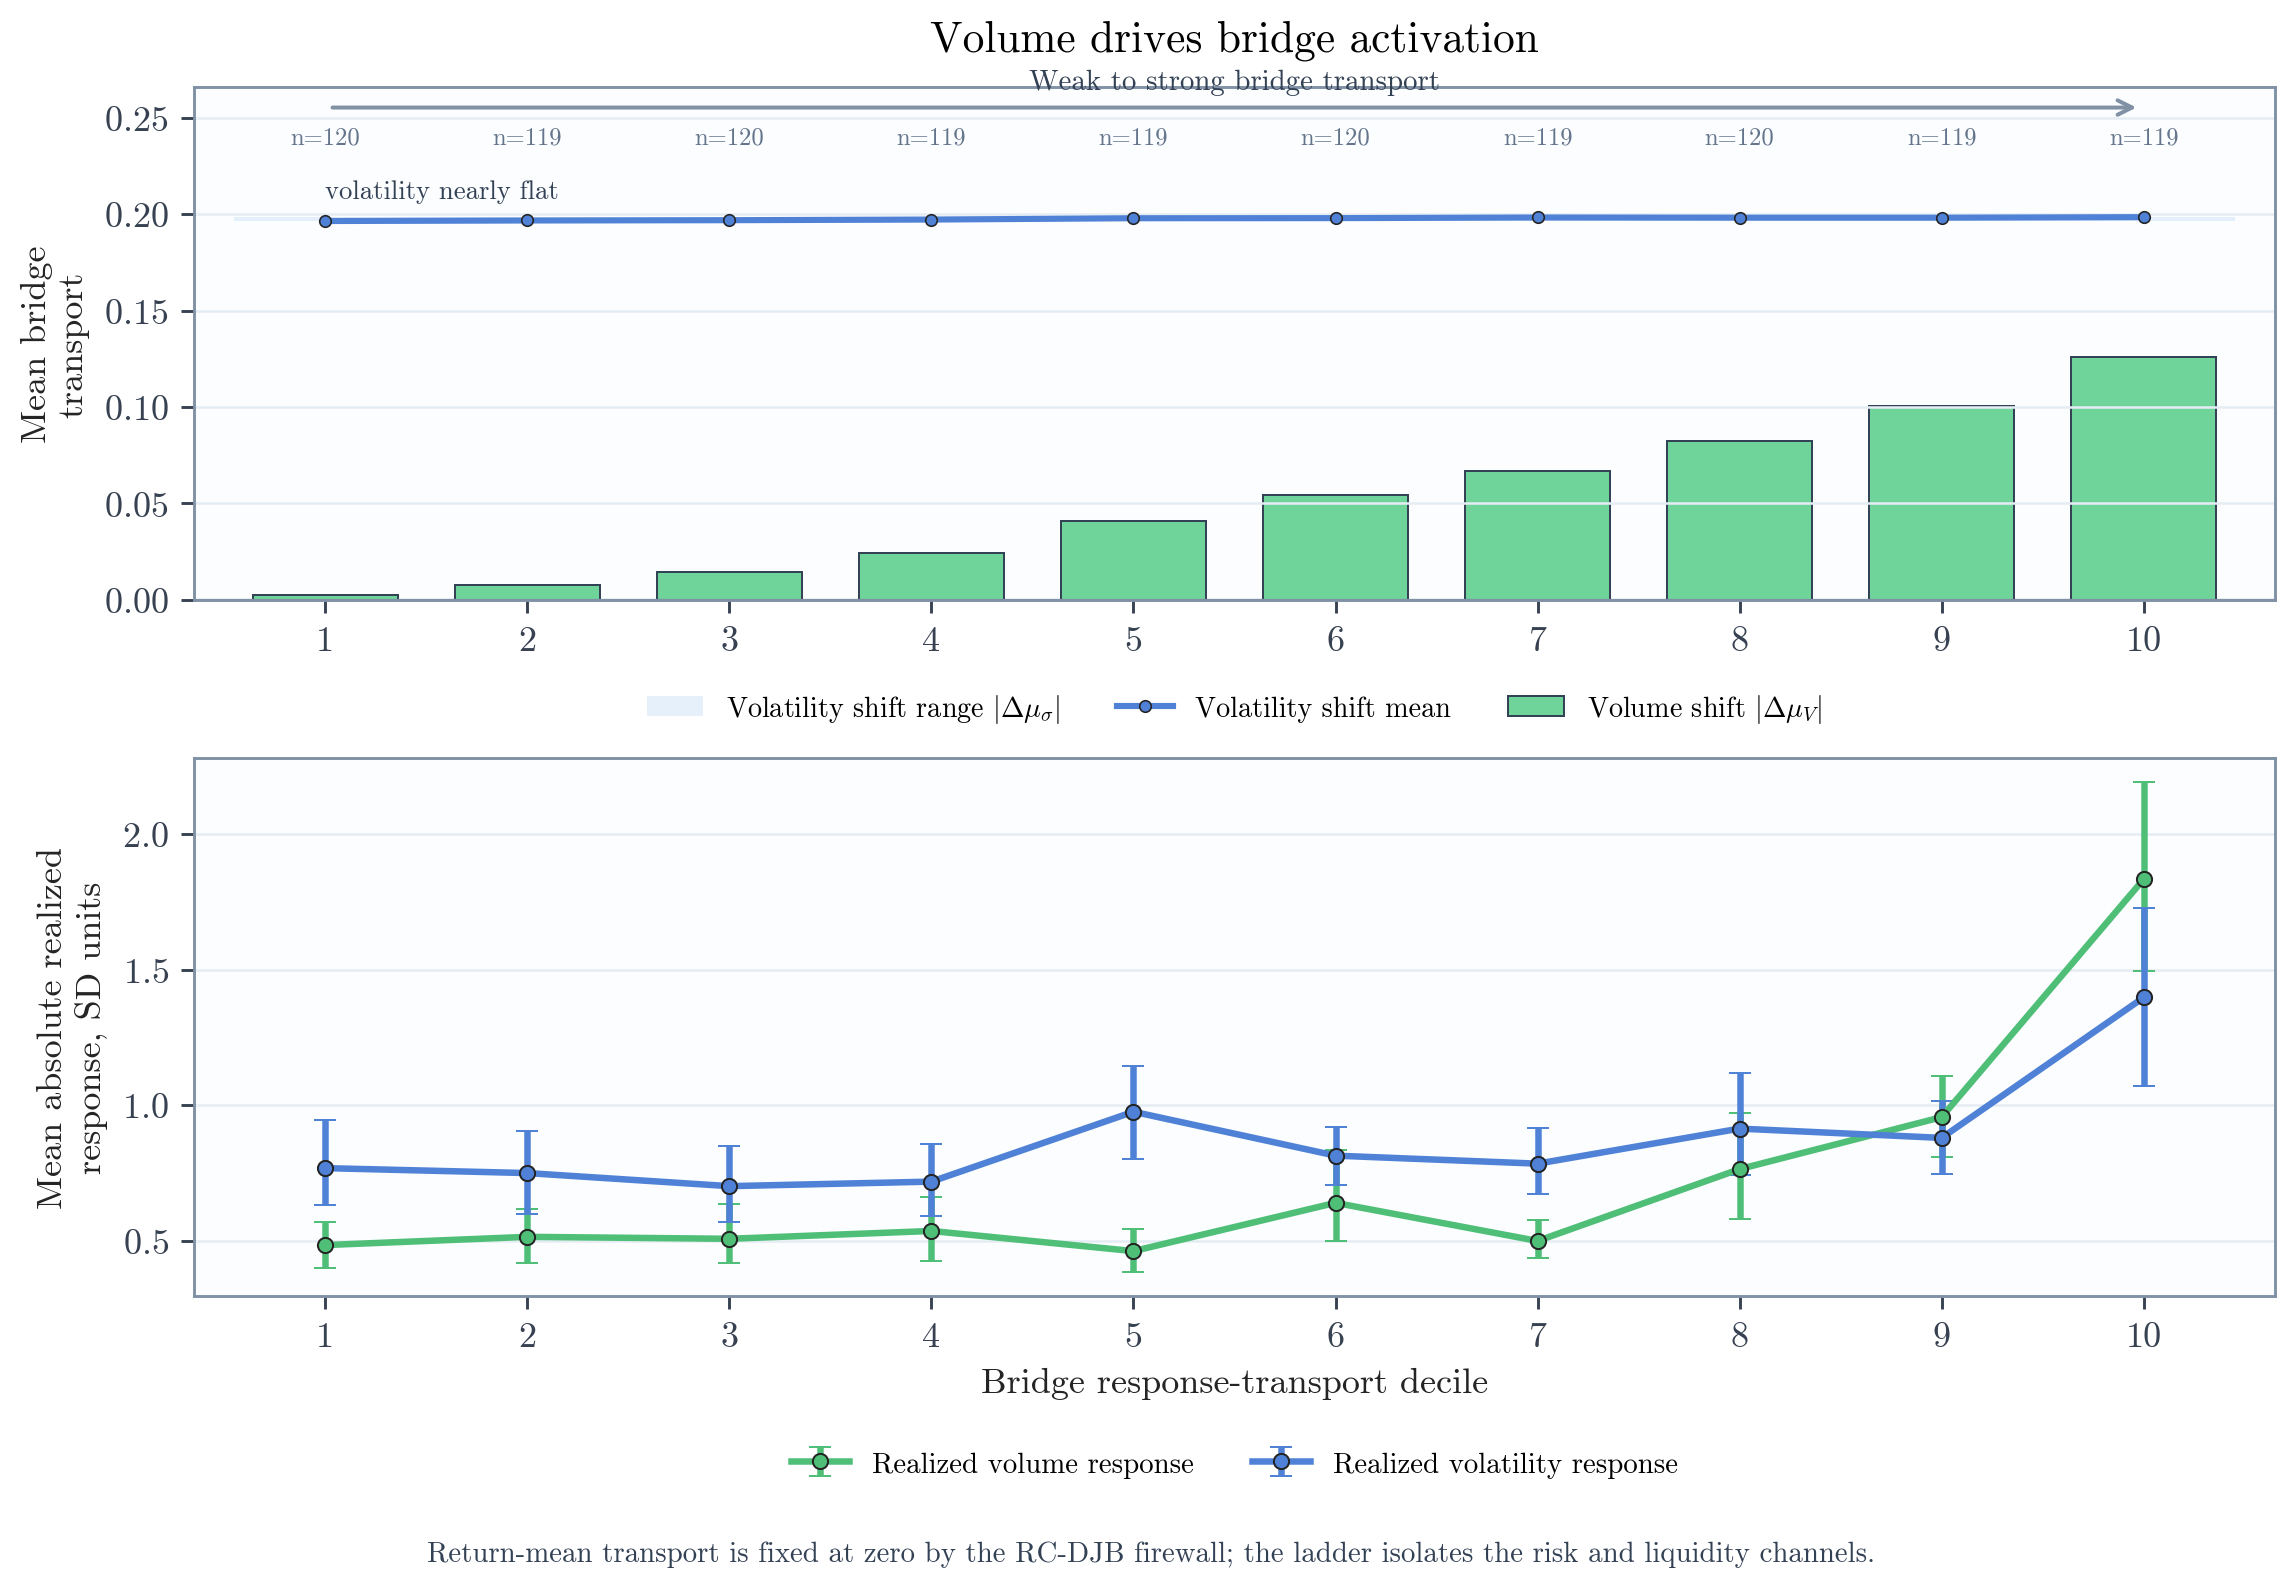
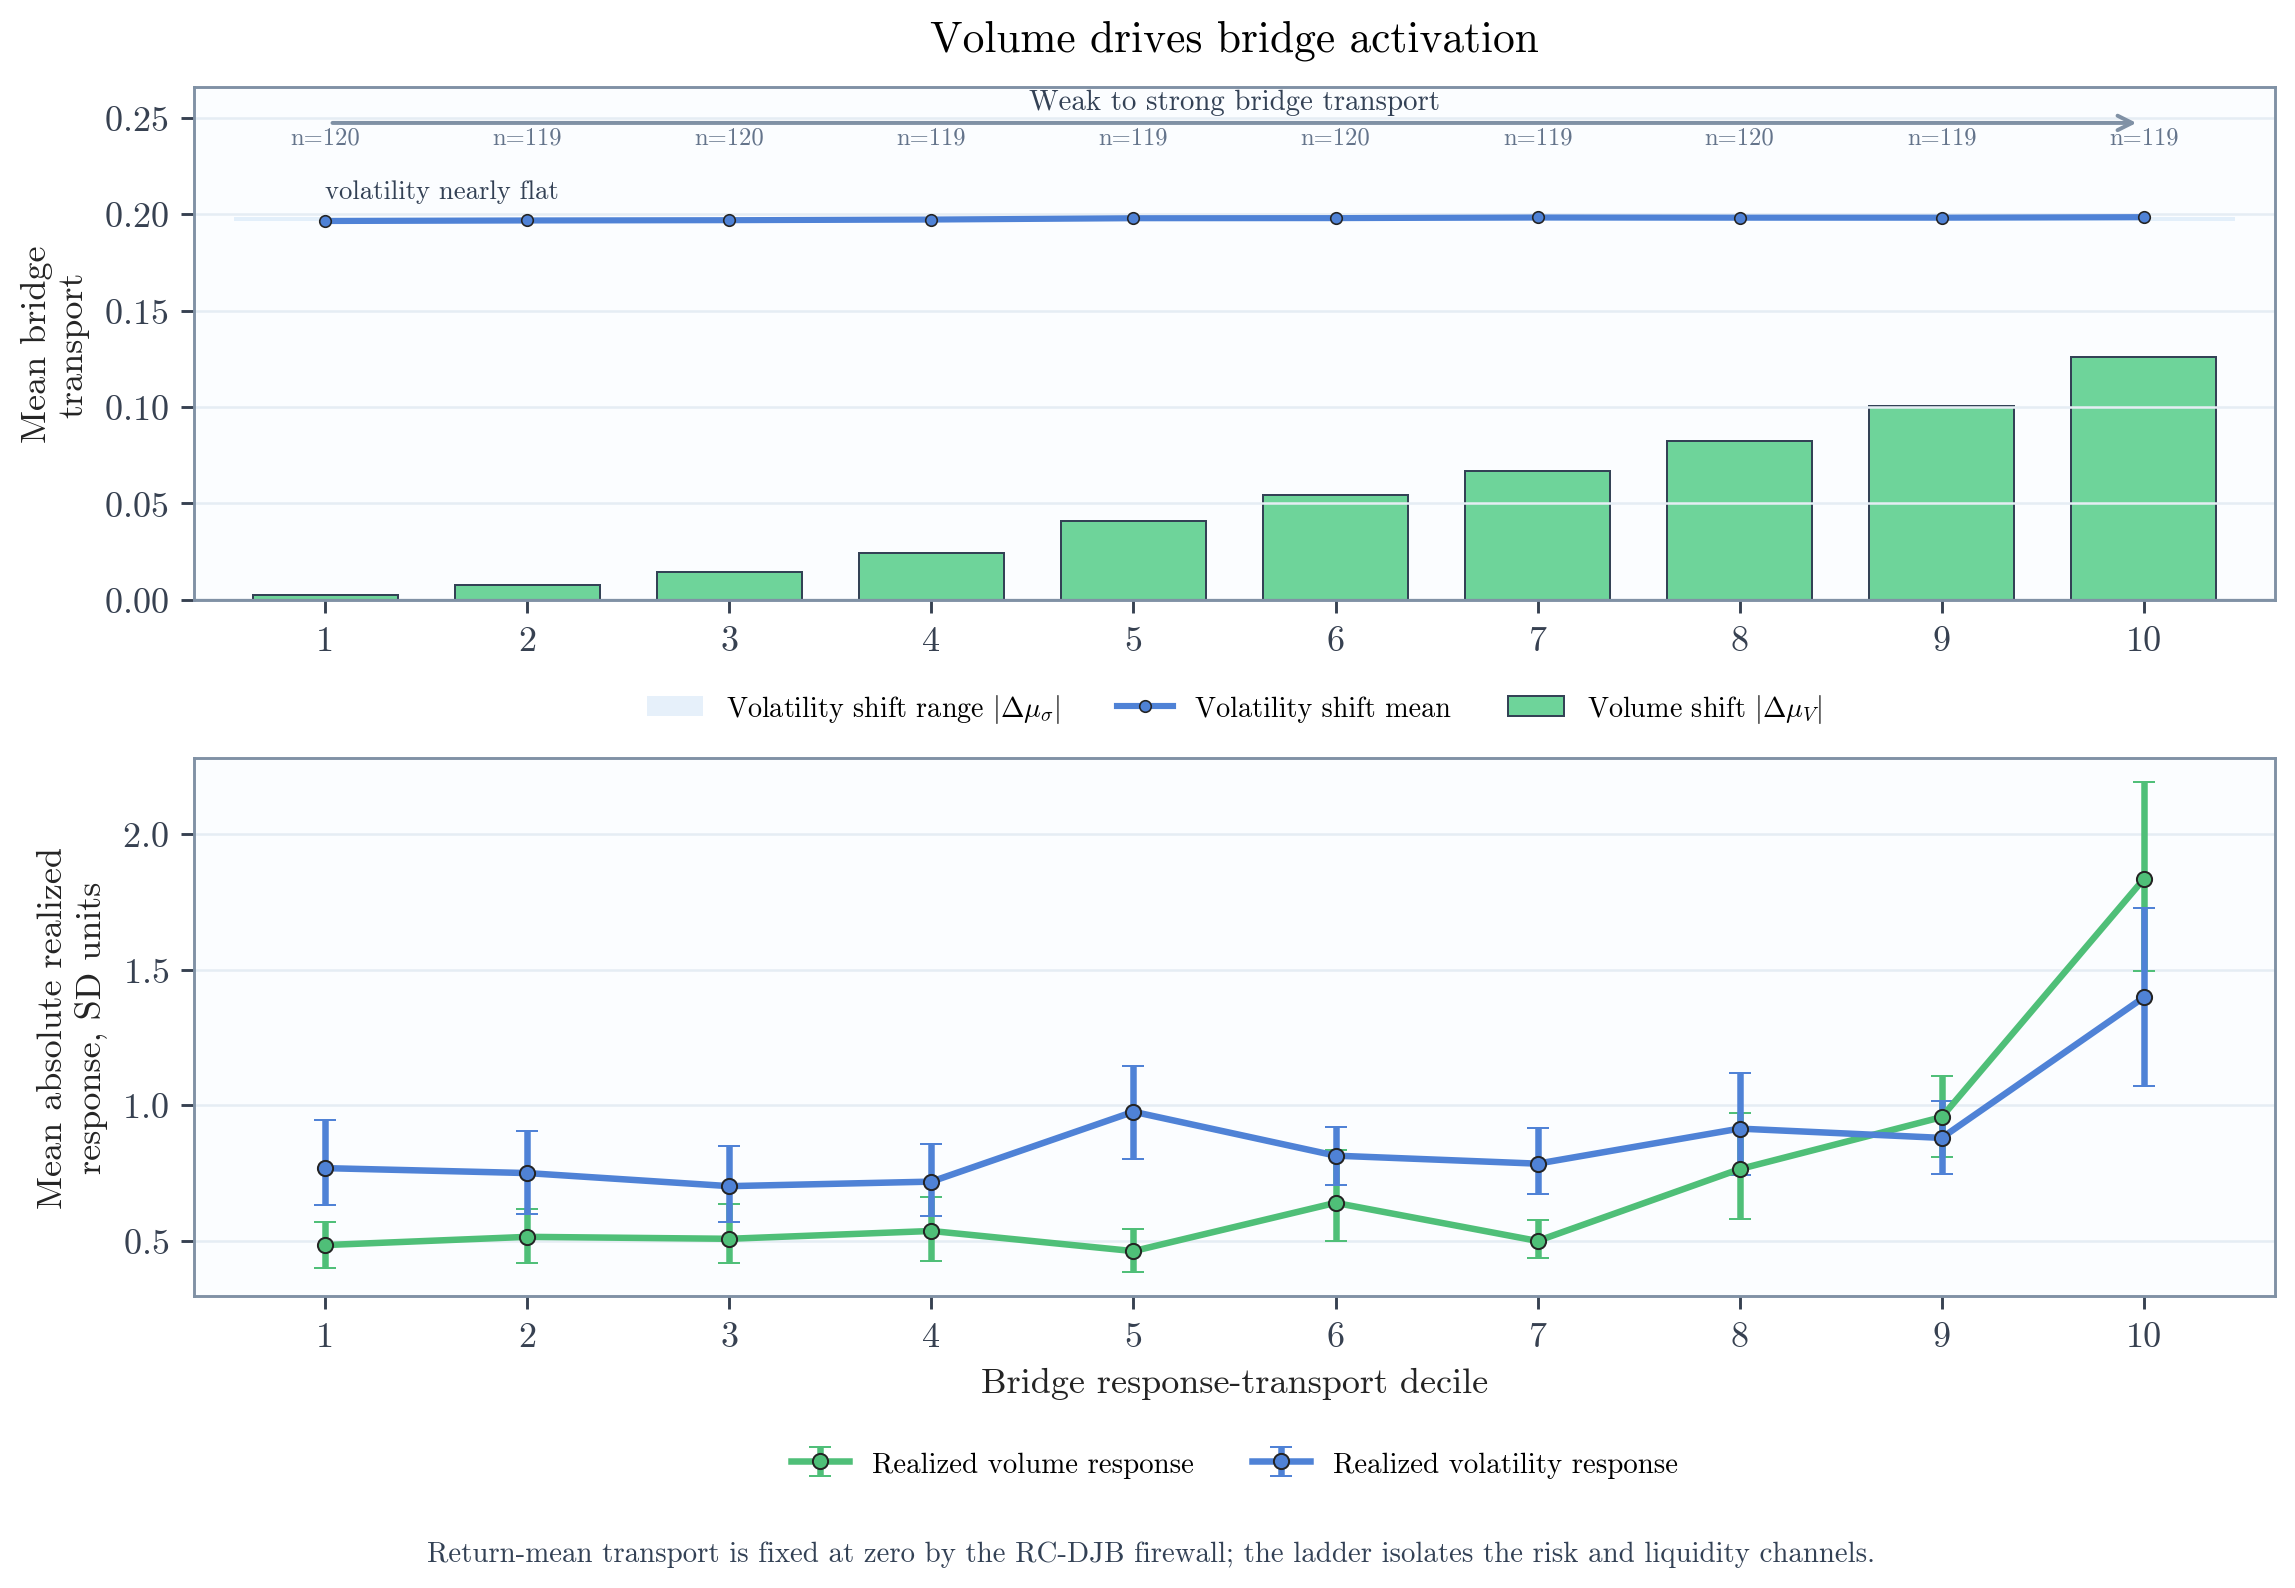
Tighten bridge ladder title spacing

Changed region(s): [[0.1547, 0.0309, 0.9281, 0.0926]]

diff --git a/scripts/80_make_rc_djb_figures.py b/scripts/80_make_rc_djb_figures.py
@@ -1187,15 +1187,15 @@ def make_bridge_activation_ladder(path: Path) -> None:
     )
     ax_transport.annotate(
         "",
-        xy=(10.0, 0.96),
-        xytext=(1.0, 0.96),
+        xy=(10.0, 0.93),
+        xytext=(1.0, 0.93),
         xycoords=("data", "axes fraction"),
         textcoords=("data", "axes fraction"),
         arrowprops={"arrowstyle": "->", "linewidth": 1.1, "color": "#8091a5"},
     )
     ax_transport.text(
         5.5,
-        0.985,
+        0.945,
         "Weak to strong bridge transport",
         transform=ax_transport.get_xaxis_transform(),
         ha="center",